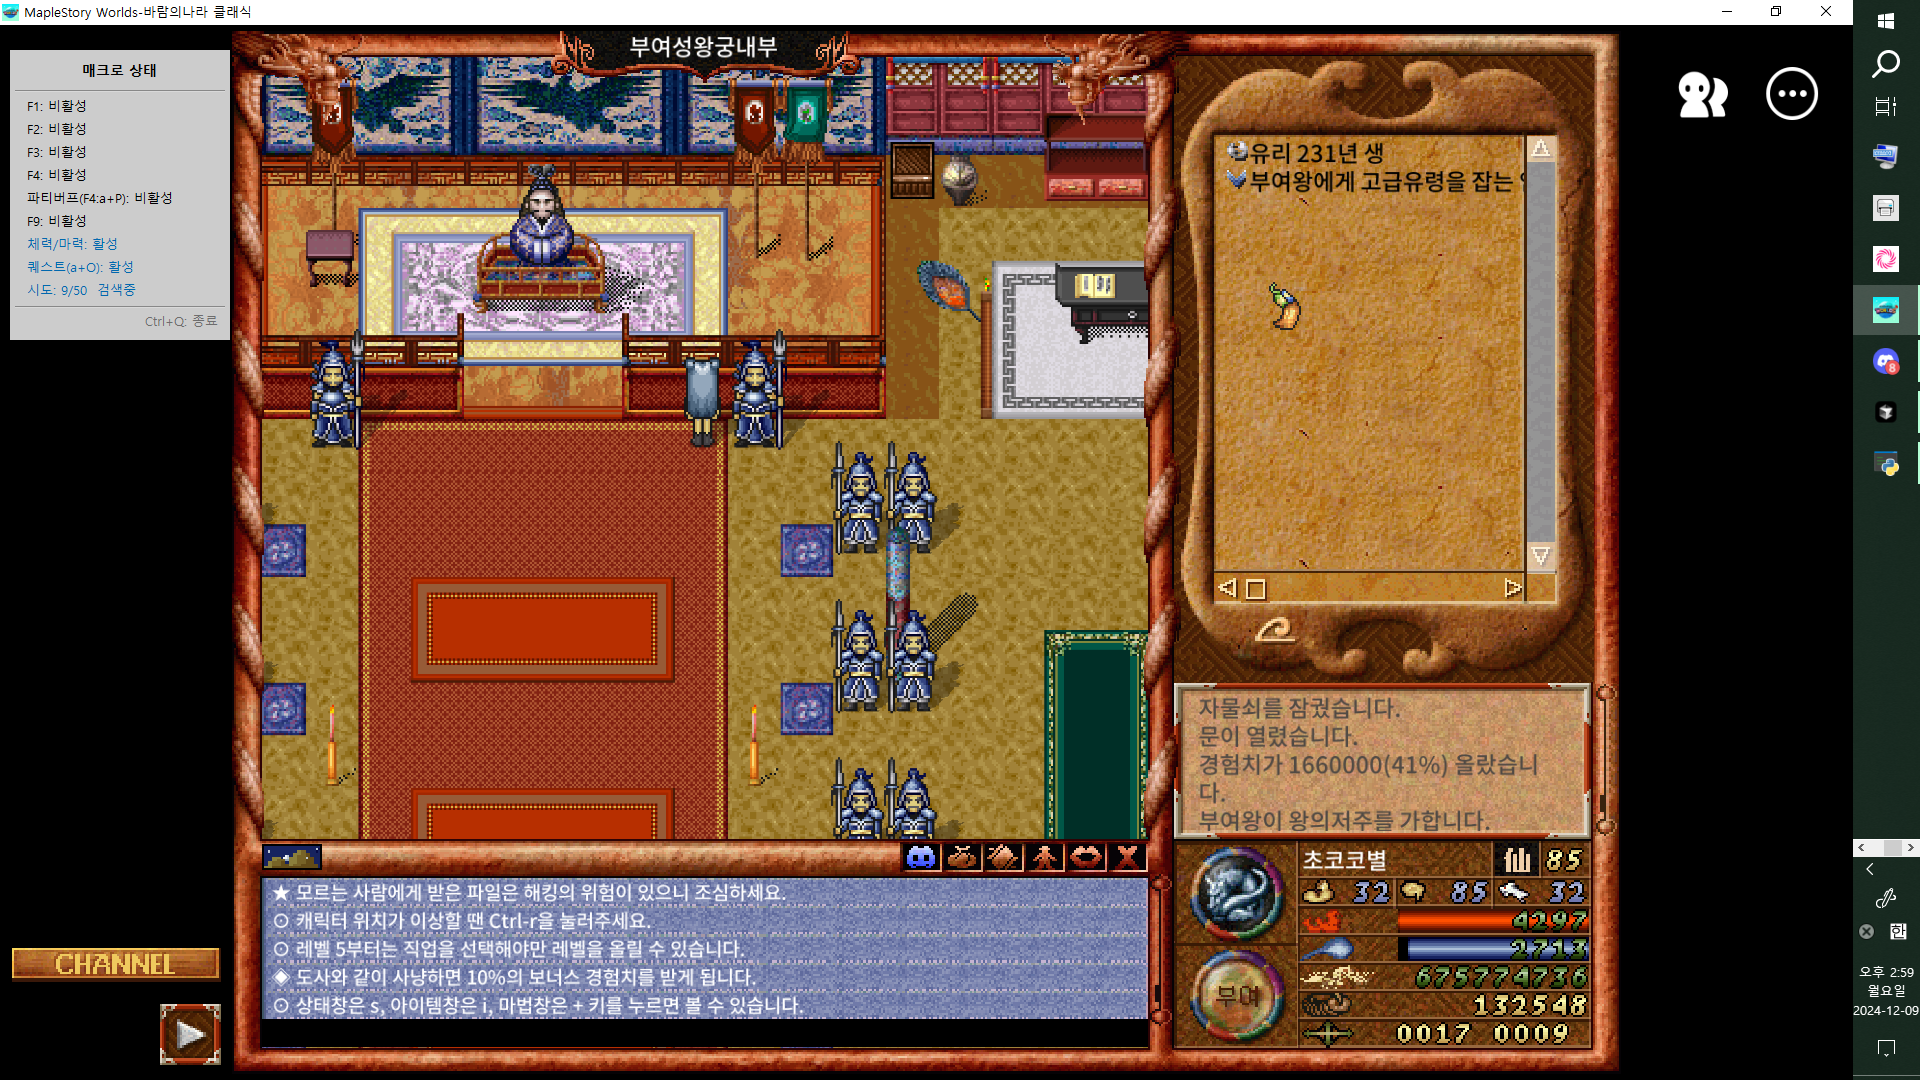
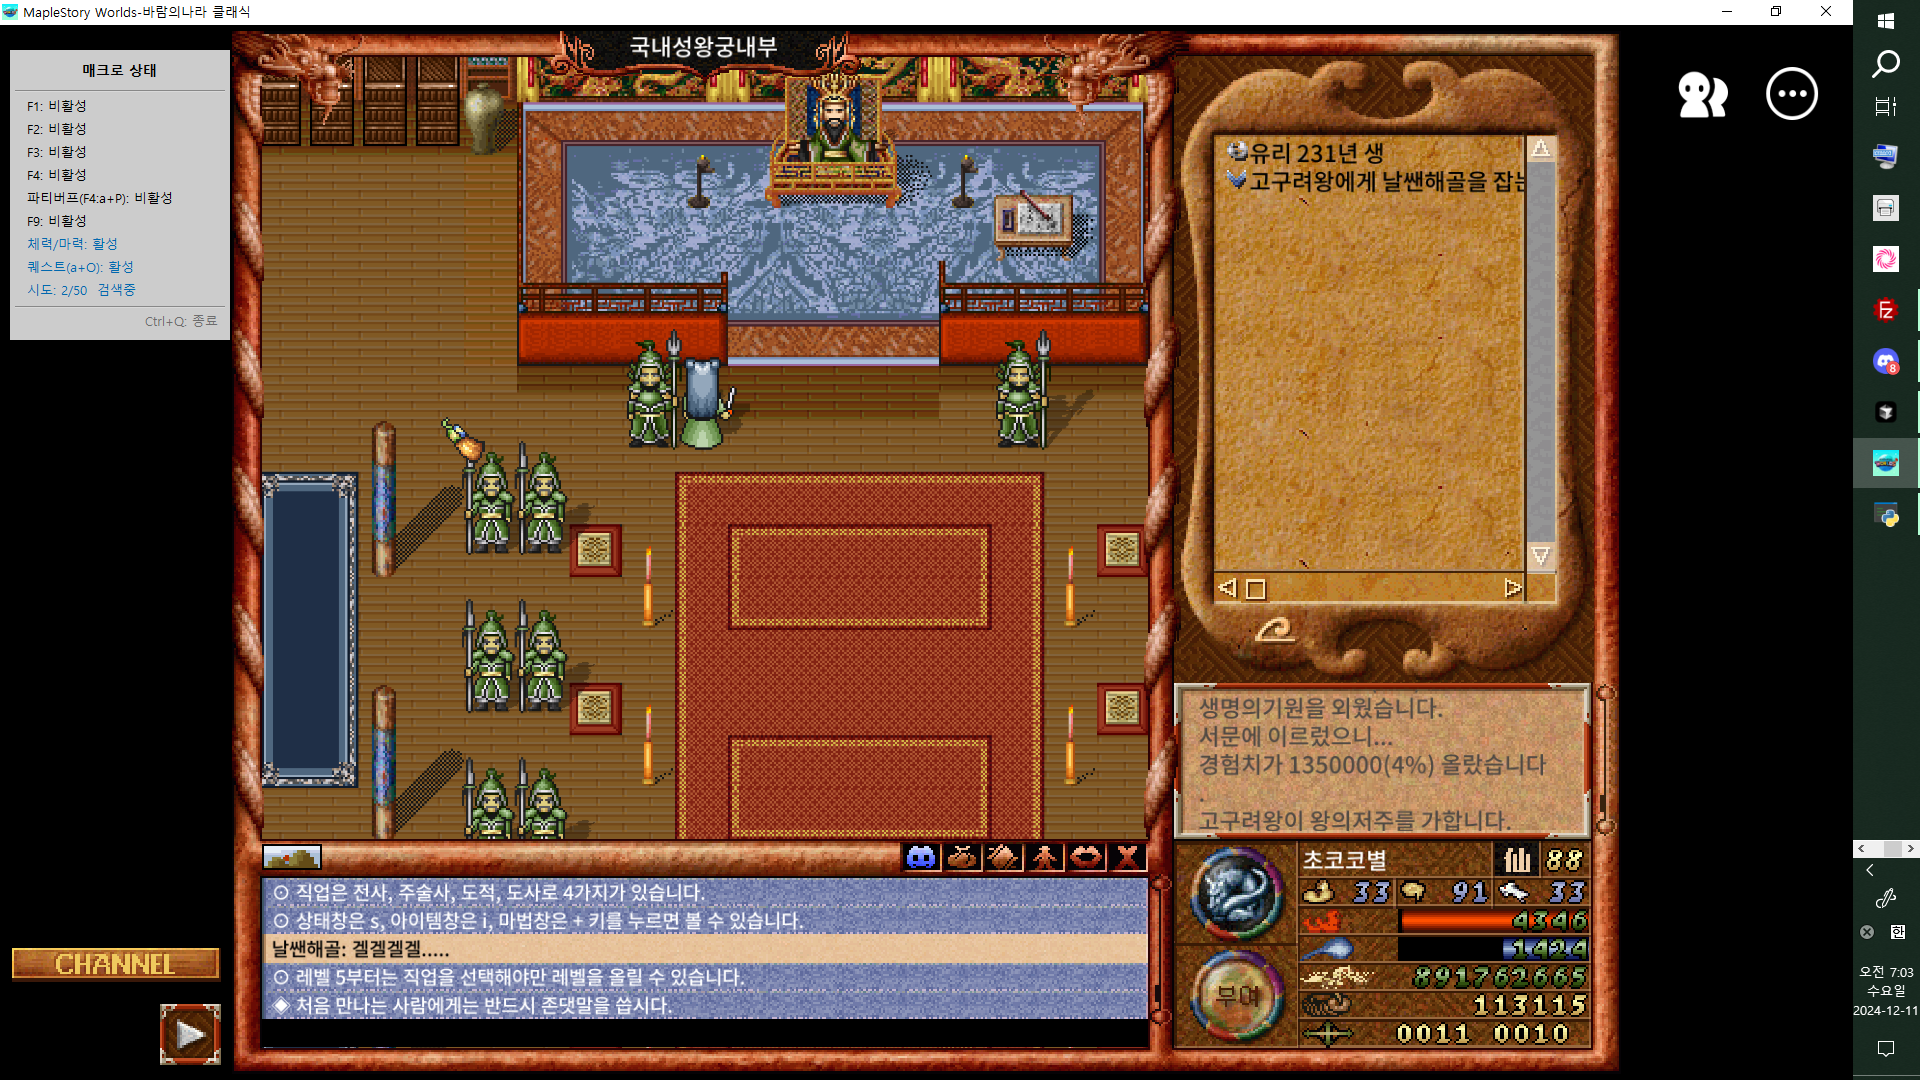
로그 메세지 오타 수정/날쌘해골, 해골 퀘스트 추가/힐 딜레이 수정.

diff --git a/mana_recovery.py b/mana_recovery.py
@@ -177,9 +177,9 @@ class ManaRecoveryController:
     def try_mana_recovery(self):
         """마나 회복 스킬 사용"""
         self.is_using_skill = True
-        print("마나 복 스킬 시도")
+        print("마나 회복 스킬 시도")
         self.send_key(self.MANA_RECOVERY_KEY)
-        time.sleep(0.1)
+        time.sleep(0.05)
         self.is_using_skill = False
 
     def check_and_recover_mana(self):
@@ -194,12 +194,12 @@ class ManaRecoveryController:
                             print(f"현재 마나: {current_mana}")  # 마나가 매우 부족할 때만 출력
                             print("마나가 너무 부족합니다! 물약 사용")
                             self.use_mana_potion()
-                            time.sleep(0.1)
+                            time.sleep(0.05)
                         elif current_mana <= 1000:  # 마나가 부족할 때
                             self.is_recovering = True
                             print(f"현재 마나: {current_mana}")  # 마나가 부족할 때만 출력
                             self.try_mana_recovery()
-                            time.sleep(0.1)
+                            time.sleep(0.05)
                         else:
                             self.is_recovering = False
 
@@ -207,8 +207,8 @@ class ManaRecoveryController:
                     print(f"마나 체크 오류: {str(e)}")
                     self.is_recovering = False
                 
-                time.sleep(0.1)
-            time.sleep(0.1)
+                time.sleep(0.05)
+            time.sleep(0.05)
 
     def toggle_macro(self):
         self.is_running = not self.is_running

diff --git a/overlay_status.py b/overlay_status.py
@@ -90,7 +90,7 @@ class StatusOverlay:
         # Ctrl+Q 종료 이벤트 바인딩
         self.root.bind('<Control-q>', self.on_exit)
         
-        # 초기화 완��
+        # 초기화 완료
         self.init_done.set()
         
         # 상태 업데이트 시작
@@ -149,6 +149,8 @@ class StatusOverlay:
                                 'beginner_ghost': '초급유령',
                                 'ghost': '유령',
                                 'highclass_ghost': '고급유령',
+                                'swift_skeleton': '날쌘해골',
+                                'skeleton': '해골',
                                 None: '검색중'
                             }.get(quest_type, '검색중')
                             

diff --git a/actions/quest_action.py b/actions/quest_action.py
@@ -16,7 +16,9 @@ class QuestAction:
         self.quest_image_paths = {
             'beginner_ghost': os.path.join(self.base_path, 'img', 'quest', 'beginner_ghost.png'),
             'ghost': os.path.join(self.base_path, 'img', 'quest', 'ghost.png'),
-            'highclass_ghost': os.path.join(self.base_path, 'img', 'quest', 'highclass_ghost.png')
+            'highclass_ghost': os.path.join(self.base_path, 'img', 'quest', 'highclass_ghost.png'),
+            'swift_skeleton': os.path.join(self.base_path, 'img', 'quest', 'swift_skeleton.png'),
+            'skeleton': os.path.join(self.base_path, 'img', 'quest', 'skeleton.png')
         }
         
         # NPC 이미지 경로들 추가

diff --git a/healing_recovery.py b/healing_recovery.py
@@ -195,7 +195,7 @@ class HealingController:
             self.macro_controller.current_skill = None
 
     def check_and_heal(self):
-        # 마나 회복 스레드 시작 - 이 부분을 다시 추가
+        # 마나 회복 스레드 시작 
         mana_thread = Thread(target=self.mana_controller.check_and_recover_mana)
         mana_thread.daemon = True
         mana_thread.start()

diff --git a/macro_controller.py b/macro_controller.py
@@ -97,7 +97,9 @@ class MacroController:
         self.quest_types = {
             'beginner_ghost': False,
             'ghost': False,
-            'highclass_ghost': True
+            'highclass_ghost': True,
+            'swift_skeleton': True,
+            'skeleton': True  # 해골 퀘스트 추가
         }
 
         # 단축키 설정

diff --git a/skills/skill_macro_3.py b/skills/skill_macro_3.py
@@ -55,4 +55,5 @@ class SkillMacro3Controller:
             keyboard.unblock_key('right')
             keyboard.unblock_key('enter')
             
+            # 이동용 딜레이
             time.sleep(0.3)
